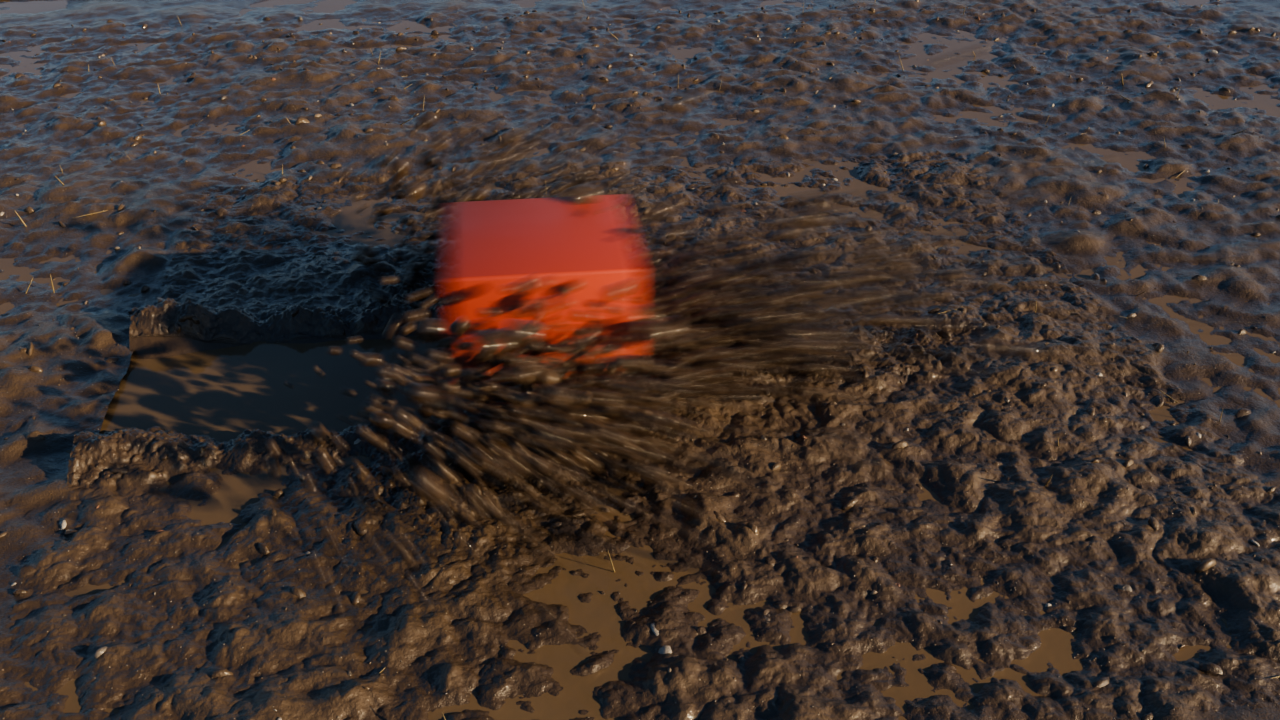
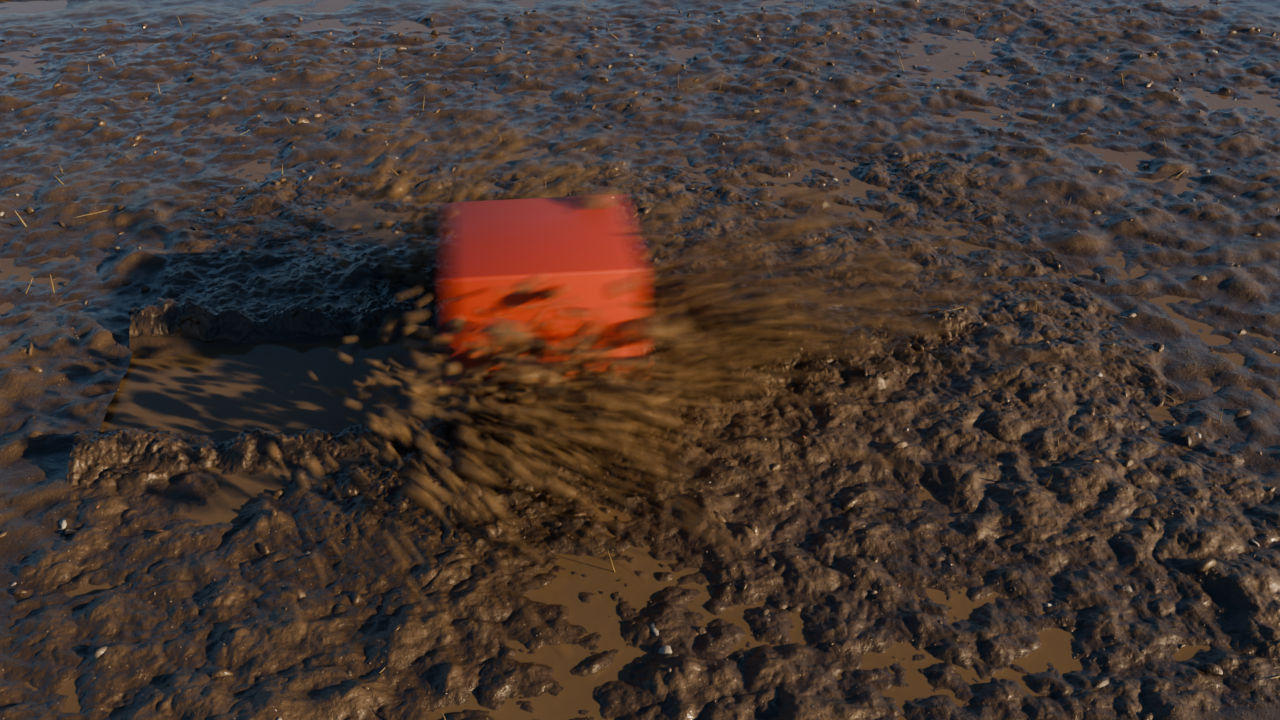
feat(mud): Tropfen aus schlammigem Wasser im Wurf, Version 0.6.1
30 Prozent der fliegenden Stuecke sind kleinere, glaenzende Tropfen mit
eigenem Material. Doku: Schnee-Shader, Nahtlinie, Testversion in dist.

refs #14, refs #4

diff --git a/groundfx/core/nodegroups/ng_spray.py b/groundfx/core/nodegroups/ng_spray.py
@@ -46,6 +46,8 @@ IN_FRAME_TIME = "Frame Time"
 IN_MATERIAL = "Material"
 IN_DUST = "Dust"
 IN_DUST_MATERIAL = "Dust Material"
+IN_WET = "Water Share"
+IN_WET_MATERIAL = "Water Material"
 OUT_GEOMETRY = "Geometry"
 
 ATTR_GRAIN_ID = "gfx_grain_id"
@@ -71,6 +73,10 @@ def _interface(b):
     b.input(IN_FRAME_TIME, "NodeSocketFloat", default=1.0 / 24.0, min=1e-4,
             description="Seconds per frame (scene frame rate)")
     b.input(IN_MATERIAL, "NodeSocketMaterial")
+    b.input(IN_WET, "NodeSocketFloat", default=0.0, min=0.0, max=1.0,
+            description="Share of the pieces that are drops of dirty water "
+                        "instead of solid material (mud)")
+    b.input(IN_WET_MATERIAL, "NodeSocketMaterial")
     if ng_dust.supported():
         b.input(IN_DUST, "NodeSocketFloat", default=0.0, min=0.0, max=4.0,
                 description="Fine fraction that stays in the air as haze")
@@ -150,7 +156,12 @@ def build(name: str = NG_SPRAY):
     fat = (1.0 / detail).pow(1.0 / 3.0).max(1.0).min(3.0)
     radius = (grain * 0.5 * rnd(14, 0.6, 1.5) * (1.0 + rnd(15).pow(8.0) * I(IN_CLUMPS))
               * fat)
-    pts, caps = g.capture(pts, [p, vel, kill, radius, rnd(16)])
+    # Wet ground does not only throw clots: much of what flies is water
+    # carrying silt, in drops smaller than the clots.
+    gid = rnd(16)
+    is_drop = gid.lt(I(IN_WET))
+    radius = radius * (1.0 - is_drop * 0.5)
+    pts, caps = g.capture(pts, [p, vel, kill, radius, gid])
     p, vel, kill, radius, gid = caps
 
     pts = g.out(g.node("GeometryNodeDeleteGeometry",
@@ -167,6 +178,10 @@ def build(name: str = NG_SPRAY):
     pts = g.store(pts, ATTR_GRAIN_ID, gid)
     pts = g.out(g.node("GeometryNodeSetMaterial",
                        {"Geometry": pts, "Material": I(IN_MATERIAL)}), 0)
+    pts = g.out(g.node("GeometryNodeSetMaterial",
+                       {"Geometry": pts,
+                        "Selection": g.attr(ATTR_GRAIN_ID).lt(I(IN_WET)),
+                        "Material": I(IN_WET_MATERIAL)}), 0)
 
     out = b.add("GeometryNodeJoinGeometry")
     if ng_dust.supported():

diff --git a/groundfx/ops/op_spray.py b/groundfx/ops/op_spray.py
@@ -26,15 +26,17 @@ from ..core.nodegroups import ng_ground_sim as gsim
 
 
 class SprayProfile:
-    __slots__ = ("grain", "drag", "spread", "clumps", "max_grains", "dust")
+    __slots__ = ("grain", "drag", "spread", "clumps", "max_grains", "dust", "wet")
 
-    def __init__(self, grain, drag, spread, clumps, max_grains, dust):
+    def __init__(self, grain, drag, spread, clumps, max_grains, dust,
+                 wet=0.0):
         self.grain = grain            # metres, diameter of a typical piece
         self.drag = drag              # air drag relative to sand
         self.spread = spread          # velocity scatter, share of launch speed
         self.clumps = clumps          # size factor of the rare big pieces
         self.max_grains = max_grains  # pieces per parcel at most
-        self.dust = dust              # haze left in the air (5.3+), 0 = none
+        self.dust = dust              # haze left in the air, 0 = none
+        self.wet = wet                # share of pieces that are water drops
 
 
 PROFILES = {
@@ -45,7 +47,7 @@ PROFILES = {
     ELEM_SNOW: SprayProfile(0.001, 20.0, 0.16, 3.0, 240, 1.0),
     # Wet and cohesive: leaves in few heavy clots and strings, stays
     # together, hardly feels the air.
-    ELEM_MUD: SprayProfile(0.009, 0.5, 0.04, 1.6, 5, 0.0),
+    ELEM_MUD: SprayProfile(0.009, 0.5, 0.05, 1.6, 9, 0.0, wet=0.3),
 }
 
 # Elements whose airborne phase has a look.
@@ -103,6 +105,9 @@ def push_spray_inputs(obj, *, tag=True) -> bool:
     set_(md, nspray.IN_SPREAD, prof.spread, tag=False)
     set_(md, nspray.IN_CLUMPS, prof.clumps, tag=False)
     set_(md, nspray.IN_MAX, prof.max_grains, tag=False)
+    set_(md, nspray.IN_WET, prof.wet, tag=False)
+    set_(md, nspray.IN_WET_MATERIAL,
+         mat_spray.drop_material() if prof.wet > 0.0 else None, tag=False)
     set_(md, nspray.IN_FRAME_TIME, 1.0 / max(1.0, fps), tag=False)
     from ..core.nodegroups import ng_dust
     if ng_dust.supported():

diff --git a/groundfx/core/materials/mat_spray.py b/groundfx/core/materials/mat_spray.py
@@ -106,3 +106,24 @@ def dust_material(element: str = ELEM_SAND) -> bpy.types.Material:
     out = nt.nodes.new("ShaderNodeOutputMaterial")
     nt.links.new(vol.outputs[0], out.inputs["Volume"])
     return mat
+
+
+def drop_material() -> bpy.types.Material:
+    """Drops of water carrying silt: milky brown, glossy, light passes."""
+    from ..constants import MAT_MUD_DROP
+    mat = bpy.data.materials.get(MAT_MUD_DROP)
+    if mat is not None:
+        return mat
+    mat = bpy.data.materials.new(MAT_MUD_DROP)
+    mat[PROP_MAT_GENERATED] = True
+    mat.use_nodes = True
+    nt = mat.node_tree
+    nt.nodes.clear()
+    bsdf = nt.nodes.new("ShaderNodeBsdfPrincipled")
+    bsdf.inputs["Base Color"].default_value = (0.17, 0.115, 0.065, 1.0)
+    bsdf.inputs["Roughness"].default_value = 0.06
+    bsdf.inputs["IOR"].default_value = 1.33
+    bsdf.inputs["Transmission Weight"].default_value = 0.3
+    out = nt.nodes.new("ShaderNodeOutputMaterial")
+    nt.links.new(bsdf.outputs[0], out.inputs["Surface"])
+    return mat

diff --git a/groundfx/core/constants.py b/groundfx/core/constants.py
@@ -32,7 +32,8 @@ ADDON_NAME = "GroundFX"
 # v26: Spray Drag and Clumps inputs (snow and mud in the air).
 # v27: grain drift levels off with drag.
 # v28: dust volume in the spray stage (5.3+).
-NODEGROUP_VERSION = 28
+# v29: water drops in the spray (mud).
+NODEGROUP_VERSION = 29
 
 # --- UI ---------------------------------------------------------------------
 PANEL_CATEGORY = "GroundFX"     # N-panel tab label
@@ -150,6 +151,7 @@ MAT_SAND_SPRAY = "GFX_SandSpray"
 MAT_SNOW_SPRAY = "GFX_SnowSpray"
 MAT_MUD_SPRAY = "GFX_MudSpray"
 MAT_DUST = "GFX_Dust"
+MAT_MUD_DROP = "GFX_MudDrop"
 
 # Marks a material as GroundFX-authored, so the element switch may rebuild it
 # but a material the user assigned themselves is left untouched (E8-T10).

diff --git a/CONTEXT.md b/CONTEXT.md
@@ -170,9 +170,32 @@ lange Rippel, im aufgewühlten Bereich gerundete Brocken als Relief und als
 Krümel, Umgebung mit flachen Wellen, keine Steinchen. Der Schnee-Shader liest
 `gfx_dist`/`gfx_damp` noch nicht.
 
-Offener Fehler: Um das Simulationsfeld läuft im Schnee eine dunkle Nahtlinie
-zum Ring (`docs/g4_snow_fast_f014.png`). Bei Sand ist sie nicht sichtbar.
-Vermutung, ungeprüft: Subsurface an der 0,4 mm überlappenden Ringreihe.
+
+## Arbeitsweise: Testversion in dist (Vorgabe ed3n, 2026-11-13)
+
+ed3n testet selbst im Viewport und braucht dafür regelmäßig ein neues ZIP in
+`dist/`. Nach jedem abgeschlossenen Schritt mit sichtbarer Änderung: Version
+im Manifest hochzählen, `blender -b --factory-startup --python dev/build.py`,
+danach `dev/verify_install.py`, und den Dateinamen in der Antwort nennen.
+`dist/` ist nicht im Repo.
+
+## Schnee-Shader und Schlamm-Wurf (2026-11-13)
+
+- **Nahtlinie im Schnee behoben.** Ursache bestätigt: Random-Walk-Subsurface
+  verliert Licht am offenen Rand von Gitter und Ring. Der Schnee-Shader nutzt
+  jetzt Christensen-Burley. Gilt für jedes Material mit Subsurface auf der
+  Domain.
+- Schnee-Shader liest `gfx_dist`: gebrochener Schnee ist krümelig, matt, mit
+  blauen Poren, weniger Glints.
+- **Glitzern aus der Distanz nicht gelöst.** Versuch mit einer zweiten,
+  groben Voronoi-Ebene (3 mm, 3,5 % der Zellen spiegelnd) blieb im Render
+  unsichtbar und wurde wieder entfernt. Spiegelnde Zellen ohne zur Sonne
+  gekippte Normale reflektieren nur Himmel.
+- Bleibt ein echter Spalt, wo eine Spur den Feldrand erreicht: Die Spur liegt
+  tiefer als der Ring, dazwischen fehlt die Wand.
+- Schlamm-Wurf: 30 % der Stücke sind Tropfen aus schlammigem Wasser
+  (`Water Share`, Material `GFX_MudDrop`, halb so groß). Zu hell (0,36/0,25/
+  0,14) überdeckt es die Klumpen, 0,17/0,115/0,065 passt.
 
 ## Schlamm Gen 3
 

diff --git a/docs/STATUS.md b/docs/STATUS.md
@@ -16,7 +16,7 @@ dieser Datei, nicht mehr hier.
 | **Gen 4 Schlamm und Schnee** | Flugphase mit eigenem Profil: Schlamm als wenige schwere Klumpen, Schnee als Pulver, das die Luft schnell bremst. Erster Stand, nicht nach Referenz abgestimmt. Belege: `g4_mud_fast_f011.png`, `g4_snow_fast_f014.png` |
 | **Sand Gen 4** | neu: fliegendes Material. Schneller Kontakt wirft Sand als Partikel, die ballistisch fliegen und massengenau wieder landen; Anzeige-Stufe `GroundFX Spray` macht daraus Körner mit Motion Blur. Belege: `g4_sand_*.png` |
 | **Sand Gen 3** | fertig als erstes Element der neuen Generation: Surface-Stufe (Rippel, Relief, Krümel, Umgebung) plus Shader v3 |
-| Schnee | Look v2, Surface-Stufe (erster Stand, Nahtlinie am Feldrand offen), Flugphase und Staub |
+| Schnee | Look v2, Surface-Stufe, Shader liest aufgewühlten Schnee, Flugphase und Staub. Belege: `g4_snow_hero_f045.png`, `g4_snow_close_f045.png` |
 | **Staub** | Volumen aus Rasterize Points für Sand und Schnee, Stärke nicht kalibriert. Beleg: `g4_sand_dust_f014.png` |
 | **Schlamm Gen 3** | fertig: Surface-Stufe (unebene Fläche, Wülste, Spritzklumpen, stehendes Wasser) plus Shader v3 und Wasser-Shader |
 | **Haften am Objekt** | fertig für Sand und Schlamm: Coat-Objekt je Collider, Körner bzw. Spritzer als Geometrie an den Flanken |
@@ -27,7 +27,7 @@ Belege Sand Gen 3: `g3_sand_hero.png`, `g3_sand_wide.png`,
 `g3_sand_close.png`, `g3_sand_macro.png` (Cycles, 160 Samples, Quality High).
 Belege Schlamm Gen 3: `g3_mud_hero.png`, `g3_mud_wide.png`,
 `g3_mud_close.png`.
-Test-ZIP: `dist/groundfx-0.6.0.zip` (lokal, nicht im Repo).
+Test-ZIP: `dist/groundfx-0.6.1.zip` (lokal, nicht im Repo).
 
 Beide Elemente wurden am 2026-11-13 nach Referenzbildern von ed3n
 nachgezogen: Schlamm klumpig und aufgewühlt mit milchigen Pfützen, Sand
